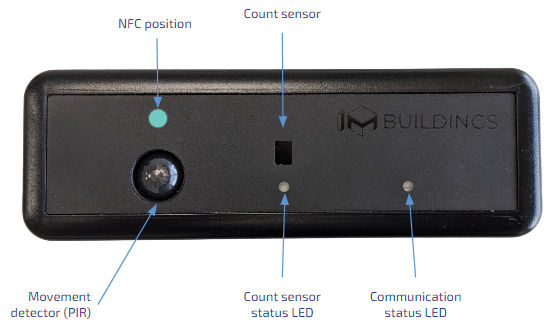
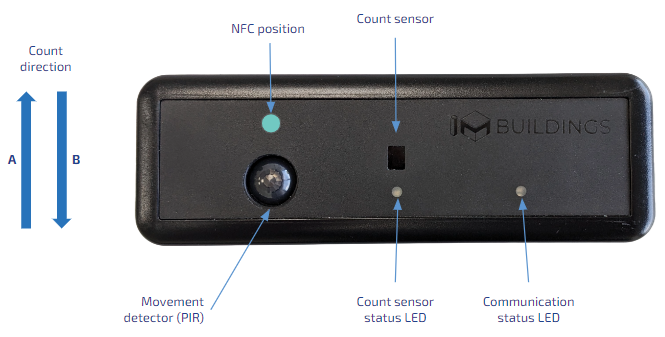
Added OOC v2 count direction

diff --git a/reference-guide/office-occupancy-counter-prototype/README.md b/reference-guide/office-occupancy-counter-prototype/README.md
@@ -7,6 +7,10 @@ Please read the quick start guide first.
 Below a picture showing the sensors and LEDs on the product<br>
 <img src="./assets/OOC-overview.png" alt="overview">
 
+**Count direction**
+To determine the count direction for in and out going traffic please notice the A and B direction.<br>
+Within the data if the device a Counter A and Counter B are representing the values for these two count directions.
+
 **Status LED**
 - Blinkin blue: connecting and communicating with the LoRaWAN network
 - Green blink: count received from the sensor
